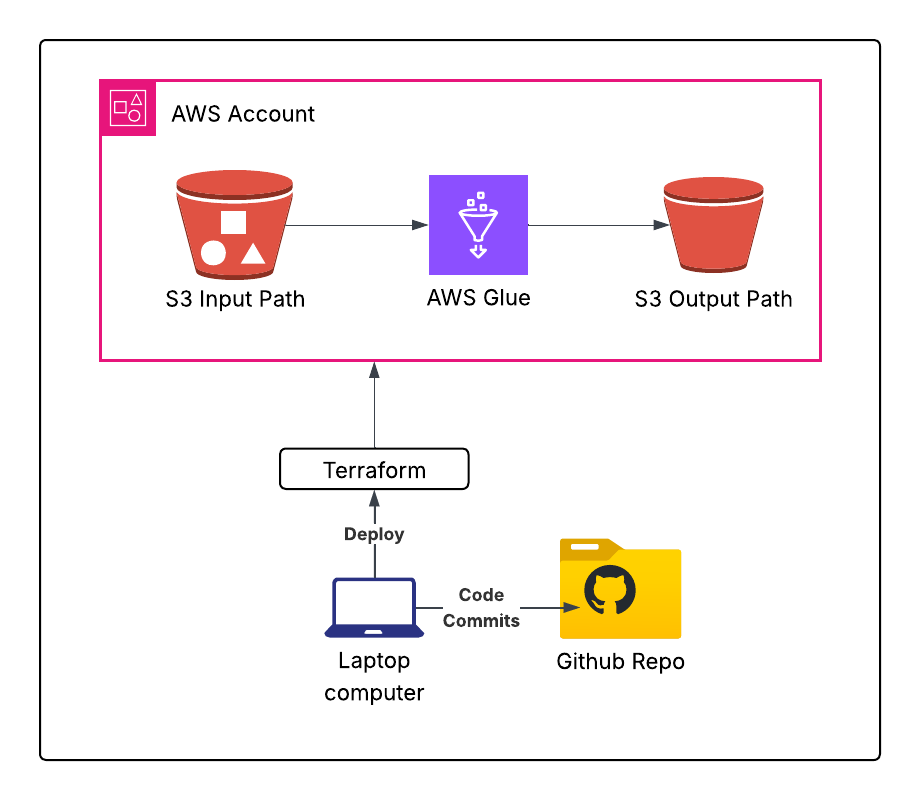
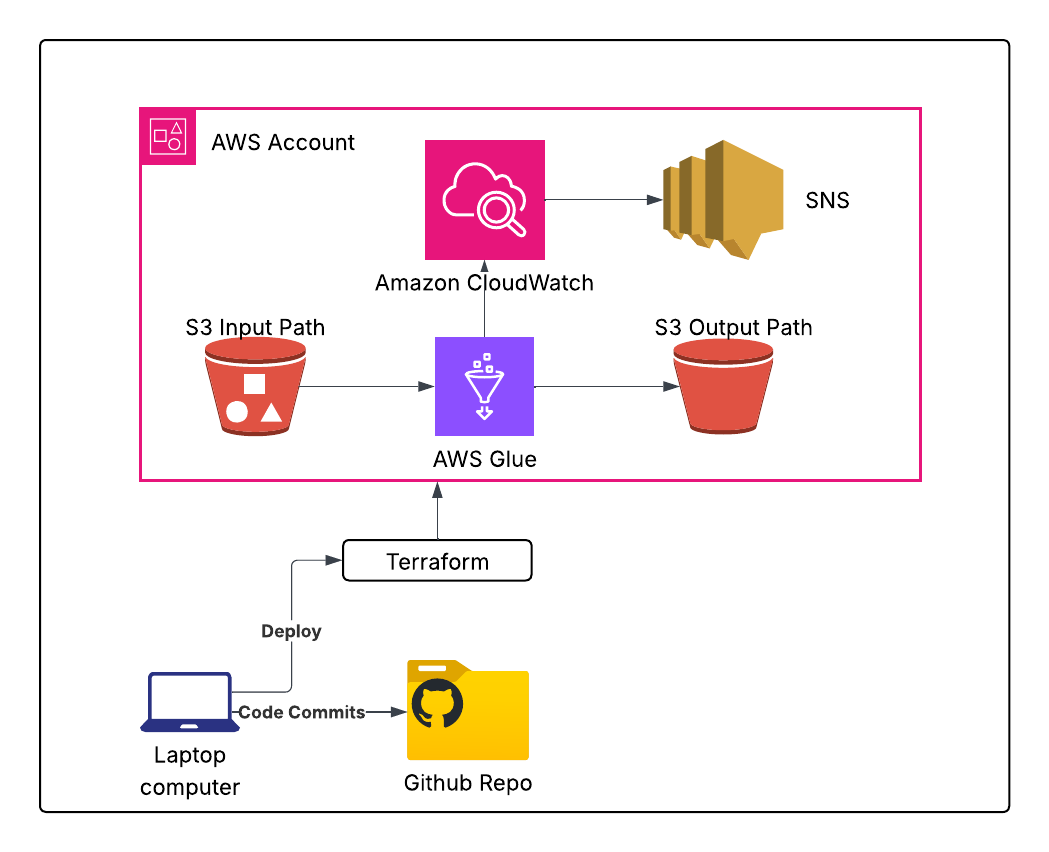
Update README.md

Changed region(s): [[0.0304, 0.0312, 0.9739, 0.9688], [0.6087, 0.6562, 0.7609, 0.8438], [0.2435, 0.7188, 0.3043, 0.75]]

diff --git a/README.md b/README.md
@@ -160,3 +160,6 @@ cd ../prod
 terraform init
 terraform apply
 ```
+
+# Monitoring
+Using Cloudwatch Monitoring Dashboard and SNS Email Trigger for Error 
